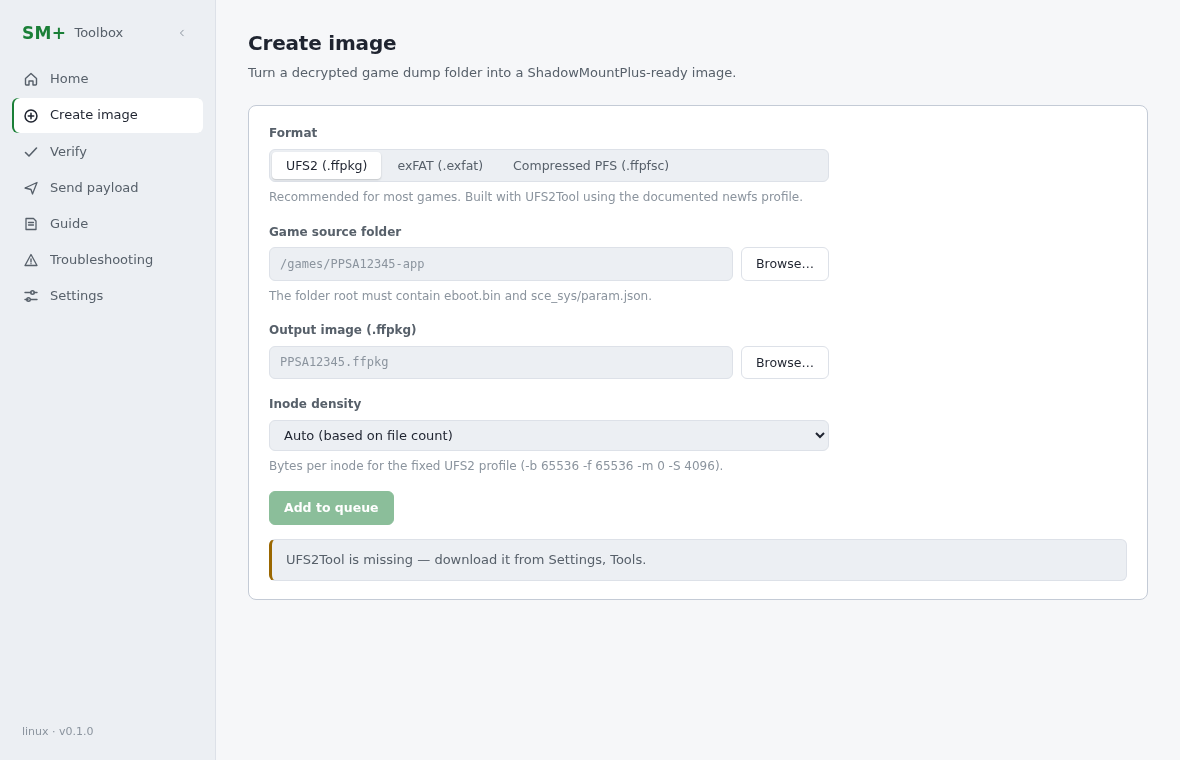
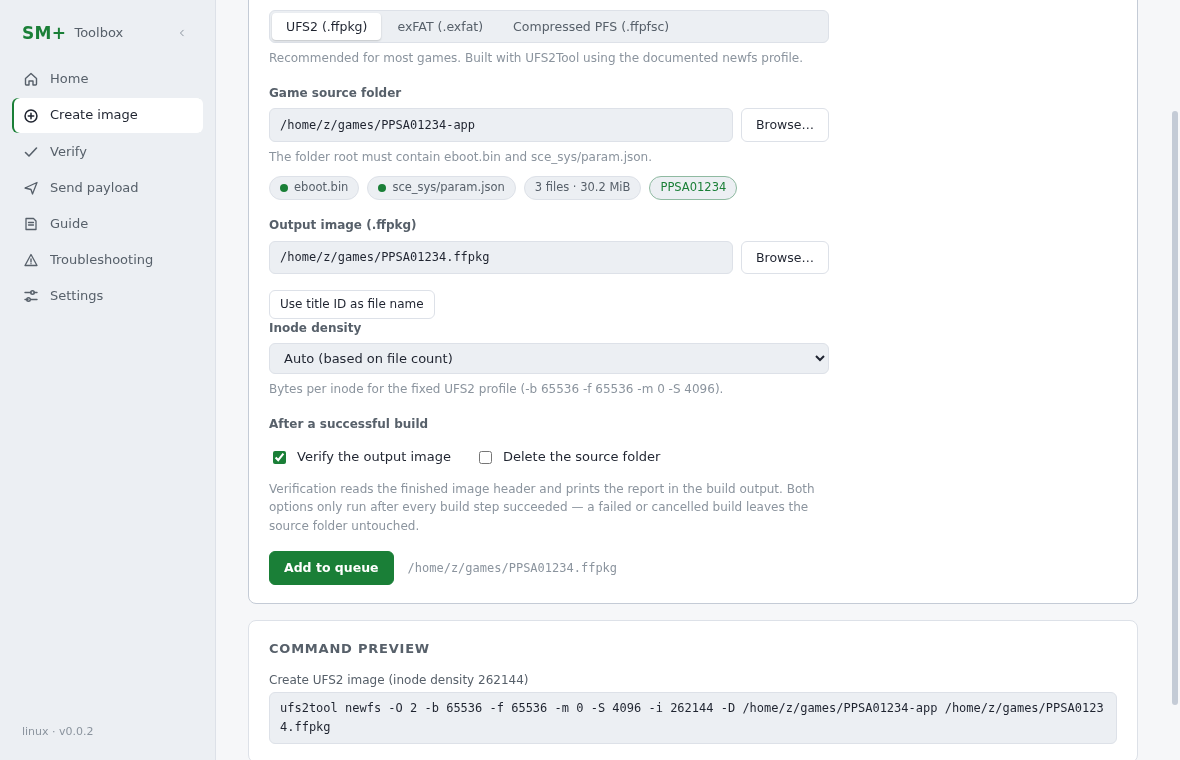
chore(release): refresh screenshots and set the version to 0.0.2

diff --git a/README.md b/README.md
@@ -20,13 +20,13 @@ SM+ Toolbox supports all three image formats used by ShadowMountPlus:
 - **exFAT (`.exfat`)** — create exFAT images using the documented filesystem profile.
 - **Compressed PFS (`.ffpfsc`)** — package game files into compressed PFS containers using MkPFS.
 
-Need to prepare more than one image? Add them to the build queue and let the app process them in order. Each build starts automatically when the previous one finishes.
+Need to prepare more than one image? Add them to the build queue and let the app process them in order. Each build starts automatically when the previous one finishes. After a successful build, the app can also verify the finished image and clean up the source folder for you — both options only run once every build step has succeeded.
 
 ### Verify images before using them
 
-The verification view checks an image's filesystem signatures, file extension, and other relevant details. It can also inspect images using UFS2Tool and MkPFS to help catch problems before you transfer them to your console.
+Queue any number of images and check what each file actually contains: filesystem signatures, file extension, cluster size, and 64 KiB alignment are inspected as soon as a file is queued, with a clear verdict per image. Anything suspicious can be inspected further using UFS2Tool and MkPFS, so problems surface before the files ever reach your console.
 
-![Verify view](docs/screenshots/verify.png)
+![Verify view with the batch queue and per-file verdicts](docs/screenshots/verify.png)
 
 ### Send payloads to your console
 
@@ -48,7 +48,7 @@ Installation instructions, usage notes, and troubleshooting information from the
 
 One thing worth noting: **commands aren't hidden behind the UI.** Before execution, the app previews the commands it will run, and the terminal panel shows the tools, arguments, and output as each step progresses.
 
-![Create view with command preview](docs/screenshots/create.png)
+![Create view with post-build options and command preview](docs/screenshots/create.png)
 
 ## Requirements
 
@@ -186,7 +186,7 @@ A few conventions used in this repository:
 - **Commit messages:** follow Conventional Commits.
 - **Pull requests:** target `dev`; `main` tracks releases.
 - **CI:** `.github/workflows/build.yml` builds and smoke-tests the app on `ubuntu-latest` and `windows-latest` for pushes and pull requests. Tagged releases matching `v*` also receive Windows and Linux distributables.
-- **Tests:** run with Vitest via `npm test`. The suite covers build recipes, image detection, the queue state machine, semantic-version comparison, and the one-click setup planner. These tests don't require network access or an Electron runtime.
+- **Tests:** run with Vitest via `npm test`. The suite covers build recipes, image detection, the build and verification queue state machines, semantic-version comparison, and the one-click setup planner. These tests don't require network access or an Electron runtime.
 
 ## Contributing
 
